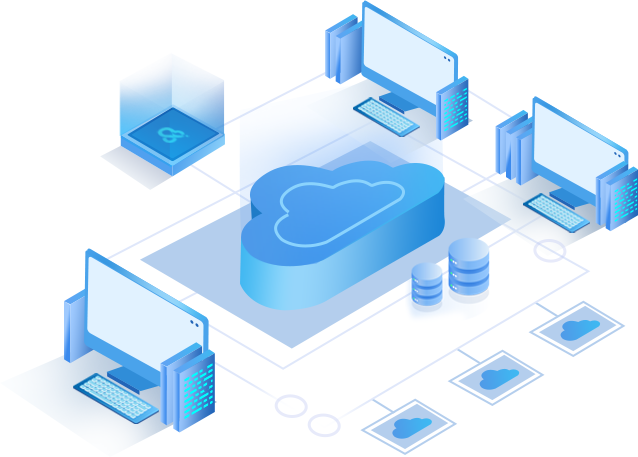
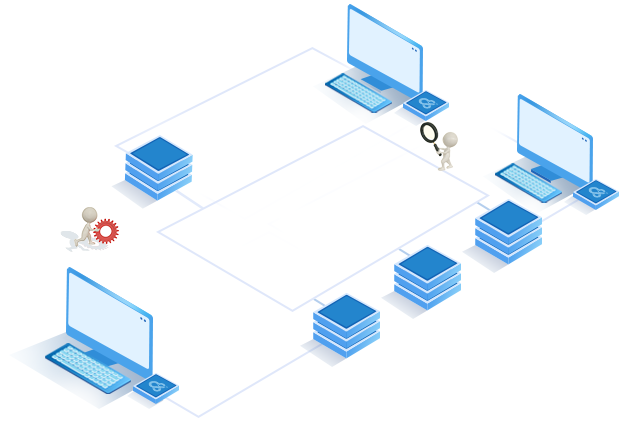
登录页动画修改

diff --git a/src/pages/Login/login.less b/src/pages/Login/login.less
@@ -5,6 +5,18 @@ body {
   0% {
     opacity: 0;
   }
+  60% {
+    opacity: 1;
+  }
+  65%{
+    opacity: 0;
+  }
+  70%{
+    opacity: 1;
+  }
+  75%{
+    opacity: 0;
+  }
   100% {
     opacity: 1;
   }
@@ -39,66 +51,47 @@ body {
       clear: both;
     }
     .content-left {
-      background: url('../../assets/place.png') left top no-repeat;
+      background: url('../../assets/place.png') center center no-repeat;
       background-size: contain;
       float: left;
-      width: 638px;
-      height: 457px;
+      width: 627px;
+      height: 424px;
       position: relative;
-      .animate-logo {
+      .animate {
         position: absolute;
         animation-name: fadeInOut;
         animation-timing-function: ease-in-out;
-        animation-iteration-count: infinite;
-        animation-duration: 4s;
-        animation-direction: alternate;
+        animation-duration: 2s;
       }
-      .animate-logo1 {
-        background: url('../../assets/logo-animate1.png') center center
+      .jiqun {
+        background: url('../../assets/jiqun.png') center center
           no-repeat;
         background-size: contain;
-        width: 33px;
-        height: 42px;
-        left: 120px;
-        bottom: 112px;
+        width: 627px;
+        height: 424px;
       }
-      .animate-logo2 {
-        background: url('../../assets/logo-animate2.png') center center
+      .animate3 {
+        animation-delay: 1s;
+        background: url('../../assets/animate3.png') center center
           no-repeat;
         background-size: contain;
-        width: 19px;
-        height: 27px;
-        left: 398px;
-        top: 50px;
-      }
-      .animate-logo3 {
-        background: url('../../assets/logo-animate2.png') center center
-          no-repeat;
-        background-size: contain;
-        width: 19px;
-        height: 27px;
-        right: 52px;
-        top: 144px;
+        width: 627px;
+        height: 424px;
       }
       .animate-div {
-        background: url('../../assets/animate.png') center center no-repeat;
-        background-size: contain;
-        width: 55px;
-        height: 102px;
+        width: 627px;
+        height: 424px;
         position: absolute;
         animation: jump 3s infinite;
       }
       .animate-div1 {
-        left: 250px;
-        top: -50px;
+        background: url('../../assets/animate.png') center center no-repeat;
+        background-size: contain;
       }
       .animate-div2 {
-        right: 14px;
-        top: 34px;
-      }
-      .animate-div3 {
-        left: 380px;
-        bottom: 42px;
+        animation-delay: 1s;
+        background: url('../../assets/animate2.png') center center no-repeat;
+        background-size: contain;
       }
     }
     .content-right {

diff --git a/src/pages/Login/index.js b/src/pages/Login/index.js
@@ -9,12 +9,10 @@ export default class Login extends Component {
         <div className="header"></div>
         <div className="content">
           <div className="content-left">
-            <div className="animate-logo animate-logo1"></div>
-            <div className="animate-logo animate-logo2"></div>
-            <div className="animate-logo animate-logo3"></div>
+            <div className="animate jiqun"></div>
+            <div className="animate animate3"></div>
             <div className="animate-div animate-div1"></div>
             <div className="animate-div animate-div2"></div>
-            <div className="animate-div animate-div3"></div>
           </div>
           <div className="content-right">
             <div className="login-title">
